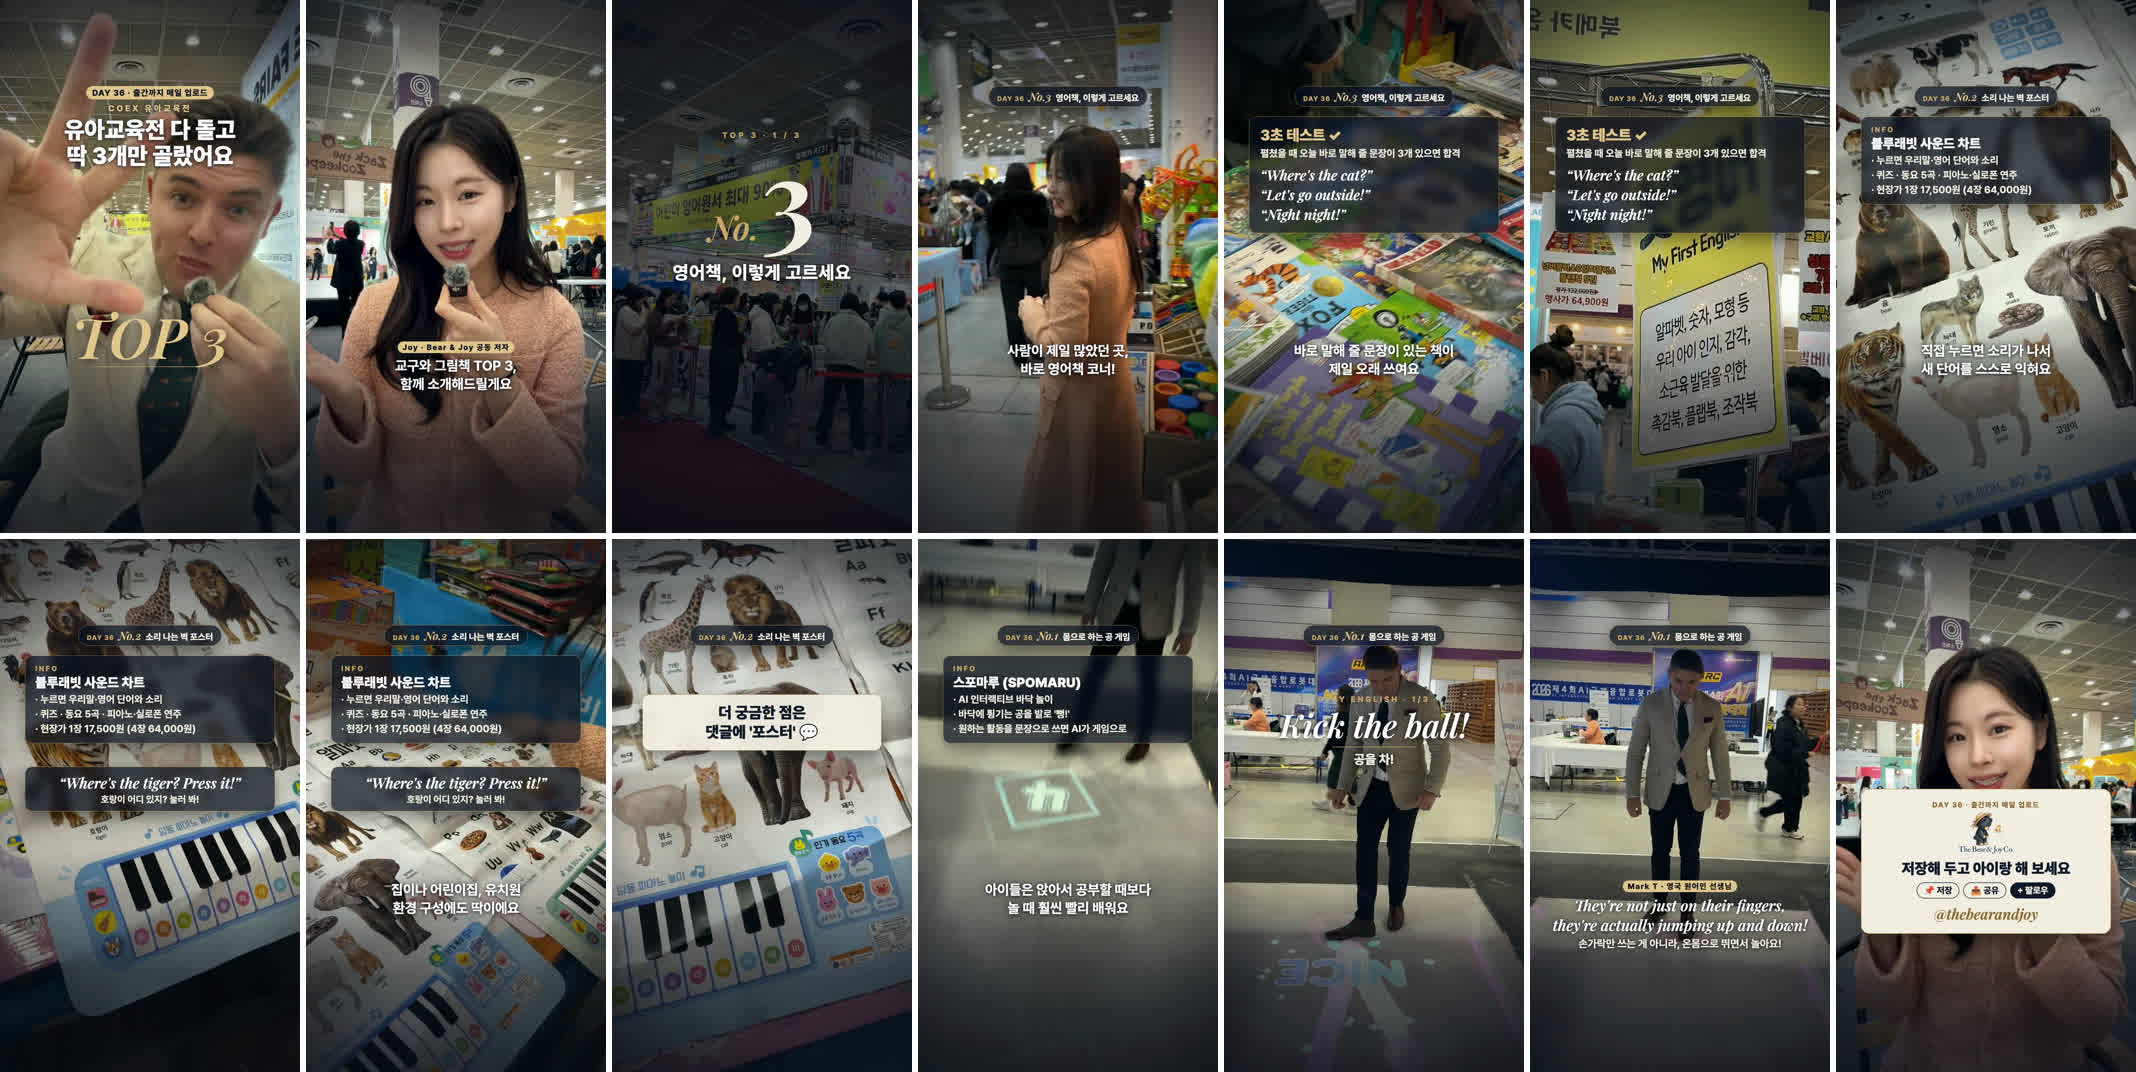
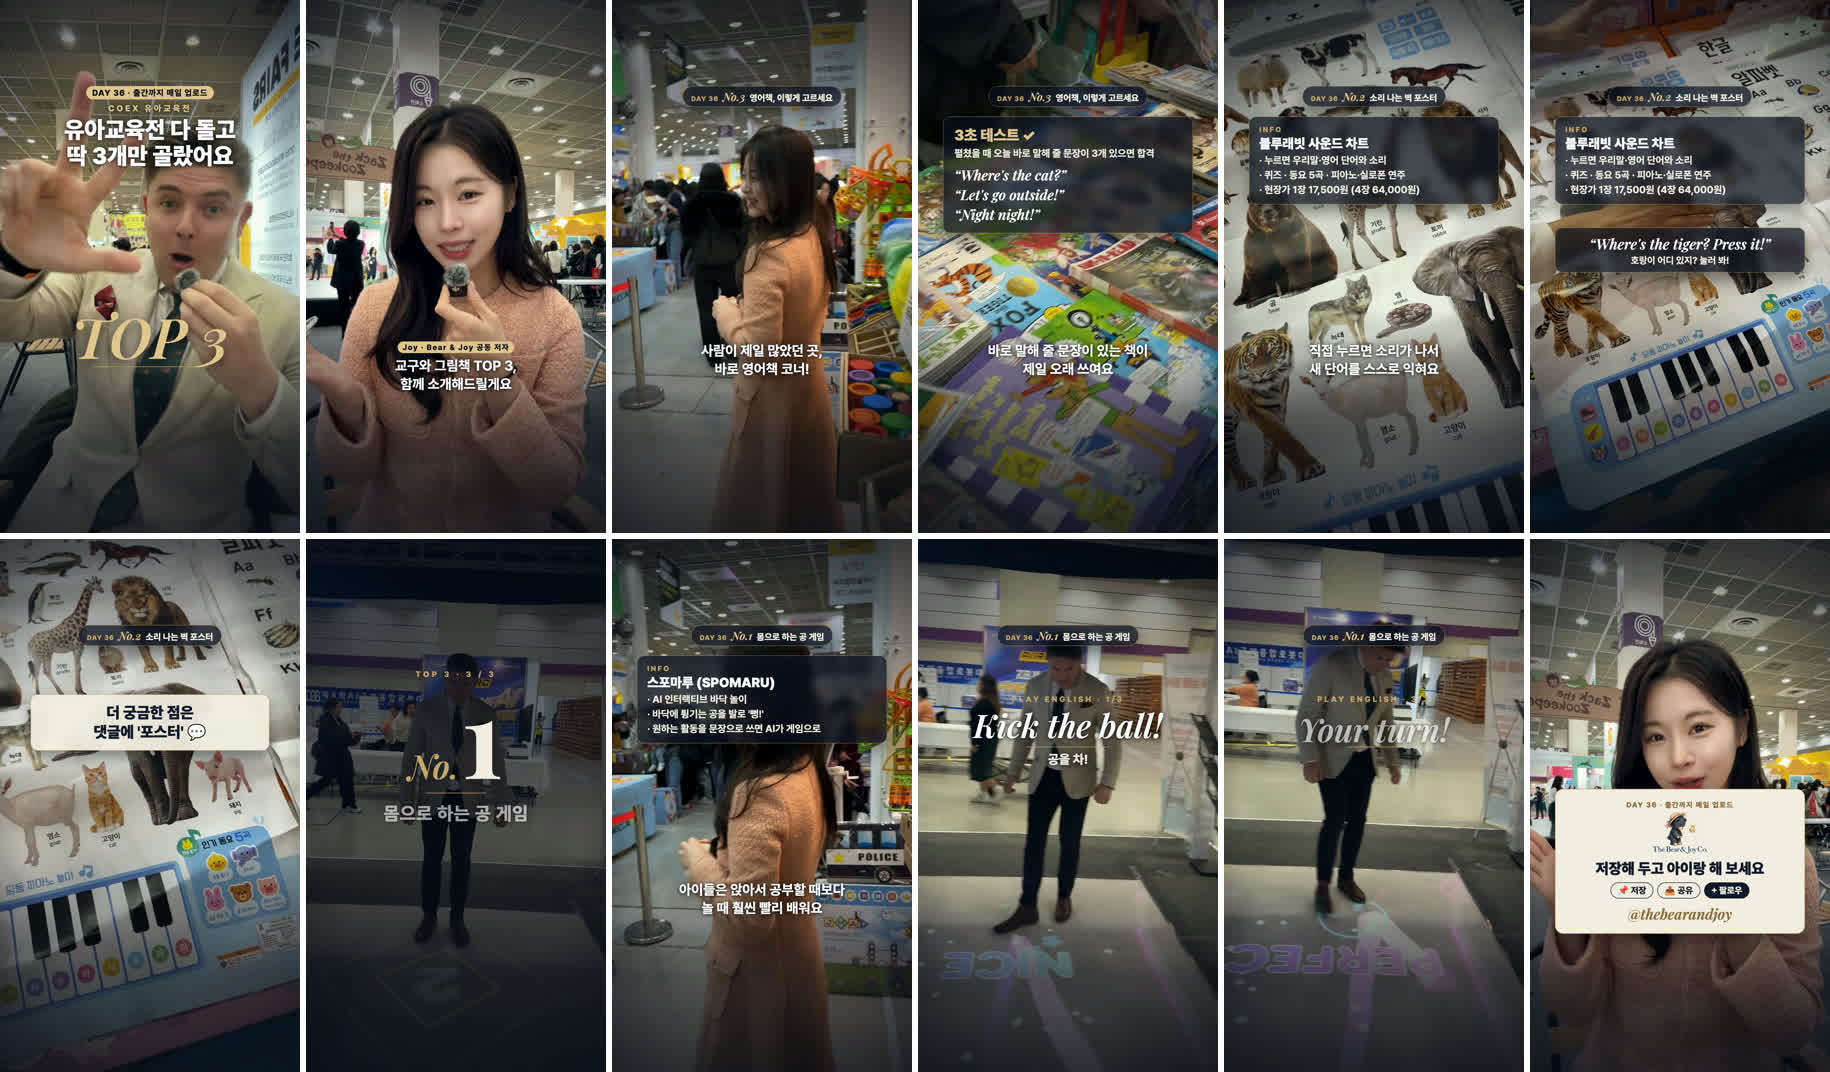
DAY 36 final (Joy): Mark's hard-to-hear fair bites ('Brilliant', 'jumping up and down') removed, comment card 1.5 s; Instagram package exported (48 s, cover = Mark + TOP 3)

diff --git a/remotion/src/TopThree.tsx b/remotion/src/TopThree.tsx
@@ -181,7 +181,7 @@ export const TopThree: React.FC<{plan: TopPlan}> = ({plan}) => {
       <AbsoluteFill style={{background: 'radial-gradient(ellipse 80% 70% at 50% 48%, rgba(0,0,0,0) 55%, rgba(5,8,16,.55) 100%)'}} />
       <AbsoluteFill style={{background: 'linear-gradient(180deg, rgba(8,12,22,.55) 0%, rgba(8,12,22,0) 30%, rgba(8,12,22,0) 58%, rgba(8,12,22,.6) 82%, rgba(8,12,22,.75) 100%)'}} />
       {sec.kind === 'q' && <QHook t={t} fps={fps} sec={sec} day={plan.day} />}
-      {(sec as Sec & {cta?: string}).cta && <Cta t={t} fps={fps} s={secs.find((x) => (x as Sec & {cta?: string}).cta)!.s + .2} text={(sec as Sec & {cta?: string}).cta!} />}
+      {(sec as Sec & {cta?: string}).cta && <Cta t={t} fps={fps} s={secs.find((x) => (x as Sec & {cta?: string}).cta)!.s + .05} text={(sec as Sec & {cta?: string}).cta!} />}
       {sec.kind === 'hook' && <Hook t={t} fps={fps} sec={sec} day={plan.day} />}
       {sec.kind === 'rank' && <Rank t={t} fps={fps} sec={sec} />}
       {showChip && cur && <Chip n={cur.n!} title={cur.title!} t={t} s={cur.e} fps={fps} day={plan.day} />}

diff --git a/projects/2026-11-day36-top3/build.py b/projects/2026-11-day36-top3/build.py
@@ -43,8 +43,7 @@ SECTIONS = [
                (B2, 16.2, 2), (B2, 305.0, 2)],
      "info": {"name": "블루래빗 사운드 차트", "lines": ["누르면 우리말·영어 단어와 소리", "퀴즈 · 동요 5곡 · 피아노·실로폰 연주", "현장가 1장 17,500원 (4장 64,000원)"]},
      "play": ("Where's the tiger? Press it!", "호랑이 어디 있지? 눌러 봐!")},
-    # 7 Mark: "Brilliant." (his voice, poster picture) + comment call-to-action
-    {"kind": "bite", "bite": (B2, 316.85, 317.65), "who": "Mark", "cap": "Brilliant! 👏", "cta": "더 궁금한 점은\n댓글에 '포스터' 💬"},
+    # (v5, Joy: Mark's fair bites "Brilliant!" and "jumping up and down" removed — hard to hear)
     {"kind": "cta", "beats": 3, "shot": (B2, 312.0), "cta": "더 궁금한 점은\n댓글에 '포스터' 💬"},
     # 9 No.1 reveal — the AI floor ball game (the climax)
     {"kind": "rank", "n": 1, "title": "몸으로 하는 공 게임", "shot": (B2, 203.0, "rot")},
@@ -55,9 +54,6 @@ SECTIONS = [
     # 11 phrase cards (Joy says them in the VO), Mark kicking on the beat
     {"kind": "phrases", "n": 1, "phrases": [(30.10, 31.28, "Kick the ball!", "공을 차!"), (31.50, 32.82, "Throw it to me!", "나한테 던져!"), (33.60, 34.60, "Your turn!", "네 차례야!")],
      "shots": [(B2, 213.0, 2, "rot"), (B2, 215.6, 2, "rot"), (B2, 207.0, 2, "rot")]},   # "Catch!" was not in the recording
-    # 12 Mark on why it works (his voice; picture = the game)
-    {"kind": "bite", "bite": (B2, 251.95, 255.75), "who": "Mark", "cap": "They're not just on their fingers,\nthey're actually jumping up and down!",
-     "ko": "손가락만 쓰는 게 아니라, 온몸으로 뛰면서 놀아요!", "picture": (B2, 204.5, "rot")},
     # 13 end: save + share + follow (Joy's last VO line)
     {"kind": "end", "pieces": [(34.98, 36.92, "저장해 두고\n아이랑 꼭 해 보세요!"), (37.38, 39.20, "See you tomorrow!", "Mark")], "shot": (B2, 0.8)},
 ]
